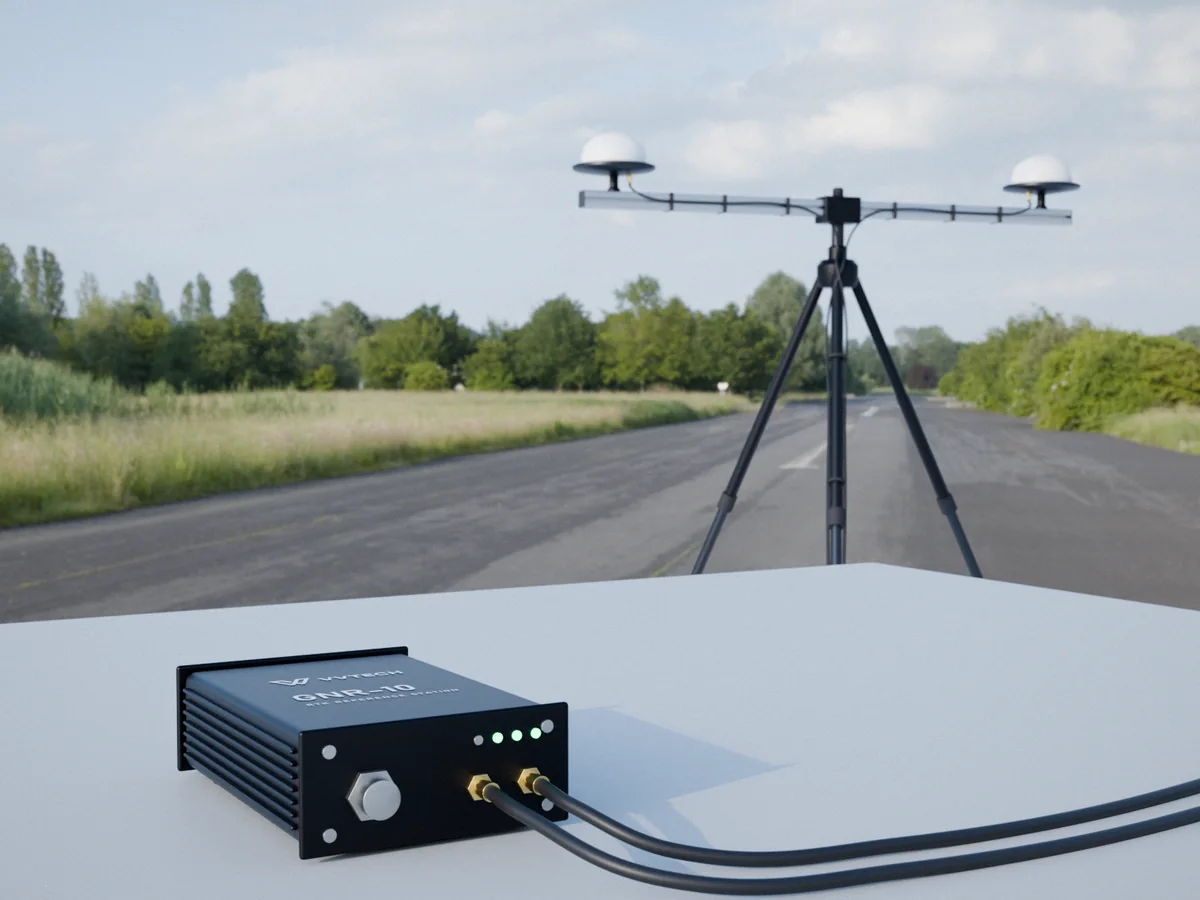
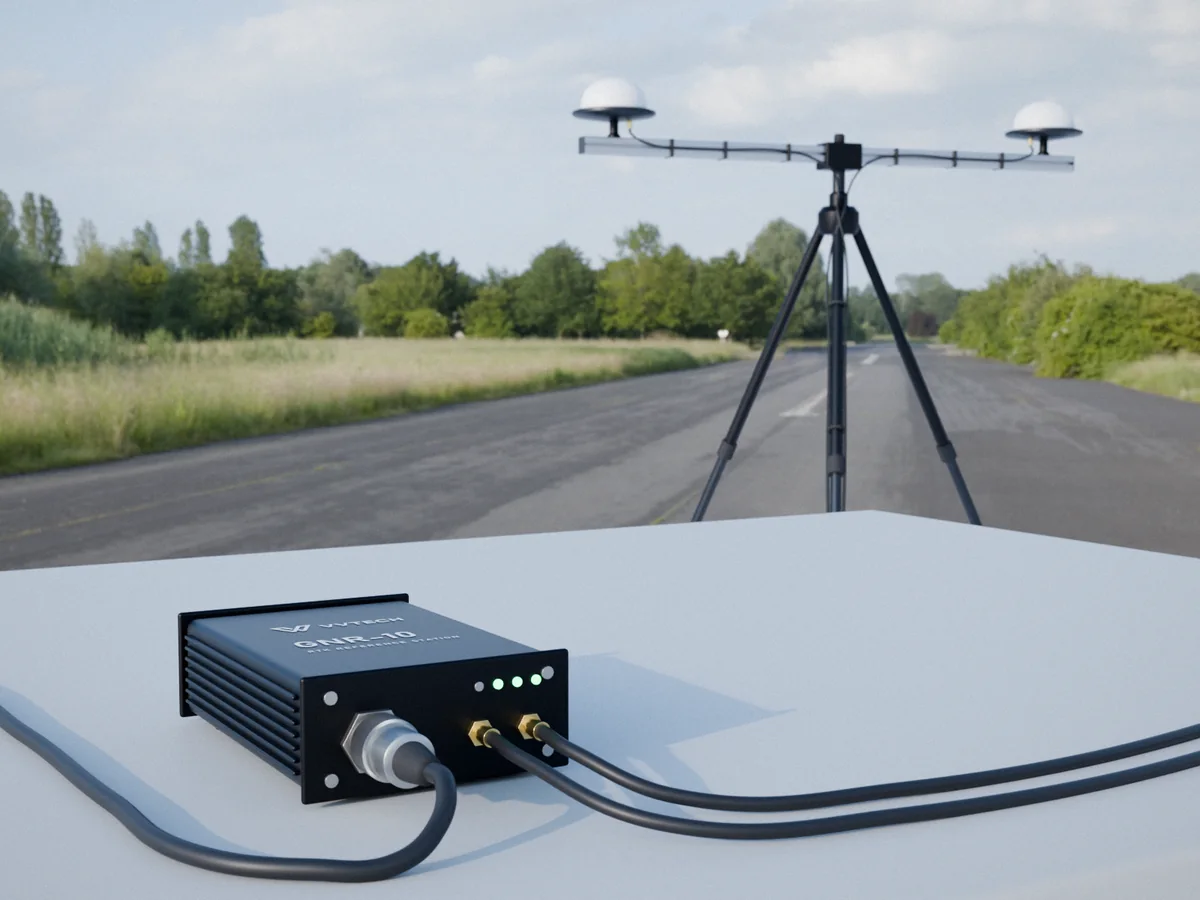
Uređaji i softver: procesor upravljanja letom FCP-10, kabl za napajanje na GNR-10

diff --git a/projekti/index.html b/projekti/index.html
@@ -180,6 +180,26 @@
         </div>
       </div>
 
+      <div class="product" id="fcp-10" style="margin-top:22px">
+        <figure>
+          <img src="../assets/products/fcp-10.webp" alt="Procesor upravljanja letom FCP-10 — prikaz uređaja u pripremi" width="1200" height="900" loading="lazy">
+          <figcaption>Procesor upravljanja letom FCP-10 — prikaz uređaja u pripremi</figcaption>
+        </figure>
+        <div>
+          <h2>Procesor upravljanja letom FCP-10</h2>
+          <p class="kind">Uređaj u pripremi</p>
+          <p>Univerzalni procesor upravljanja letom sa velikim brojem ulaza i izlaza. U realnom vremenu izvršava zakone upravljanja: prima merenja senzora i podatke navigacije, računa komande i šalje ih izvršnim organima letelice.</p>
+          <table class="facts">
+            <tr><th>Kućište</th><td>glodani aluminijum, eloksiran, sa ušicama za pričvršćenje</td></tr>
+            <tr><th>Ulazi i izlazi</th><td>serijske veze, CAN, analogni ulazi, diskretni ulazi i izlazi, izlazi za izvršne organe</td></tr>
+            <tr><th>Priključci</th><td>šest DB-9 i tri kružna GX16</td></tr>
+            <tr><th>Antene</th><td>dva priključka za GNSS antene</td></tr>
+            <tr><th>Pokazivači</th><td>tri lampice stanja</td></tr>
+            <tr><th>Stanje</th><td>u pripremi</td></tr>
+          </table>
+        </div>
+      </div>
+
       <div class="tiles three">
         <div class="tile static" id="at-10">
           <img class="photo" src="../assets/products/at-10.webp?v=3" alt="Uređaj za automatsko usmeravanje antene AT-10, sa pogonima na obe ose, na tronošcu" width="1200" height="900" loading="lazy">
@@ -190,7 +210,7 @@
           </div>
         </div>
         <div class="tile static" id="gnr-10">
-          <img class="photo" src="../assets/products/gnr-10.webp?v=3" alt="Referentna GNSS stanica GNR-10 sa dve antene na krutom nosaču" width="1200" height="900" loading="lazy">
+          <img class="photo" src="../assets/products/gnr-10.webp?v=4" alt="Referentna GNSS stanica GNR-10 sa dve antene na krutom nosaču" width="1200" height="900" loading="lazy">
           <div class="tile-body">
             <h3>GNR-10 — referentna GNSS stanica</h3>
             <p>Zemaljska referentna stanica sa dve antene na krutom nosaču, na stalnom međusobnom rastojanju. Letelici šalje RTK korekcije, po uzoru na GBAS, za položaj visoke tačnosti.</p>

diff --git a/en/projects/index.html b/en/projects/index.html
@@ -181,6 +181,26 @@
         </div>
       </div>
 
+      <div class="product" id="fcp-10" style="margin-top:22px">
+        <figure>
+          <img src="../../assets/products/fcp-10.webp" alt="FCP-10 flight control processor — visualisation of a planned device" width="1200" height="900" loading="lazy">
+          <figcaption>FCP-10 flight control processor — visualisation of a planned device</figcaption>
+        </figure>
+        <div>
+          <h2>FCP-10 flight control processor</h2>
+          <p class="kind">Planned device</p>
+          <p>A universal flight control processor with a large number of inputs and outputs. It runs the control laws in real time: it takes sensor measurements and navigation data, computes the commands and sends them to the vehicle's actuators.</p>
+          <table class="facts">
+            <tr><th>Enclosure</th><td>machined aluminium, anodised, with mounting lugs</td></tr>
+            <tr><th>Inputs and outputs</th><td>serial links, CAN, analogue inputs, discrete inputs and outputs, actuator outputs</td></tr>
+            <tr><th>Connectors</th><td>six DB-9 and three GX16 circular</td></tr>
+            <tr><th>Antennas</th><td>two GNSS antenna connectors</td></tr>
+            <tr><th>Indicators</th><td>three status lights</td></tr>
+            <tr><th>Status</th><td>planned</td></tr>
+          </table>
+        </div>
+      </div>
+
       <div class="tiles three">
         <div class="tile static" id="at-10">
           <img class="photo" src="../../assets/products/at-10.webp?v=3" alt="AT-10 antenna tracker with a drive on each axis, on a tripod" width="1200" height="900" loading="lazy">
@@ -191,7 +211,7 @@
           </div>
         </div>
         <div class="tile static" id="gnr-10">
-          <img class="photo" src="../../assets/products/gnr-10.webp?v=3" alt="GNR-10 GNSS reference station with two antennas on a rigid beam" width="1200" height="900" loading="lazy">
+          <img class="photo" src="../../assets/products/gnr-10.webp?v=4" alt="GNR-10 GNSS reference station with two antennas on a rigid beam" width="1200" height="900" loading="lazy">
           <div class="tile-body">
             <h3>GNR-10 — GNSS reference station</h3>
             <p>A ground reference station with two antennas on a rigid beam, at a fixed spacing. It sends RTK corrections to the vehicle, in the manner of GBAS, for high-accuracy positioning.</p>
